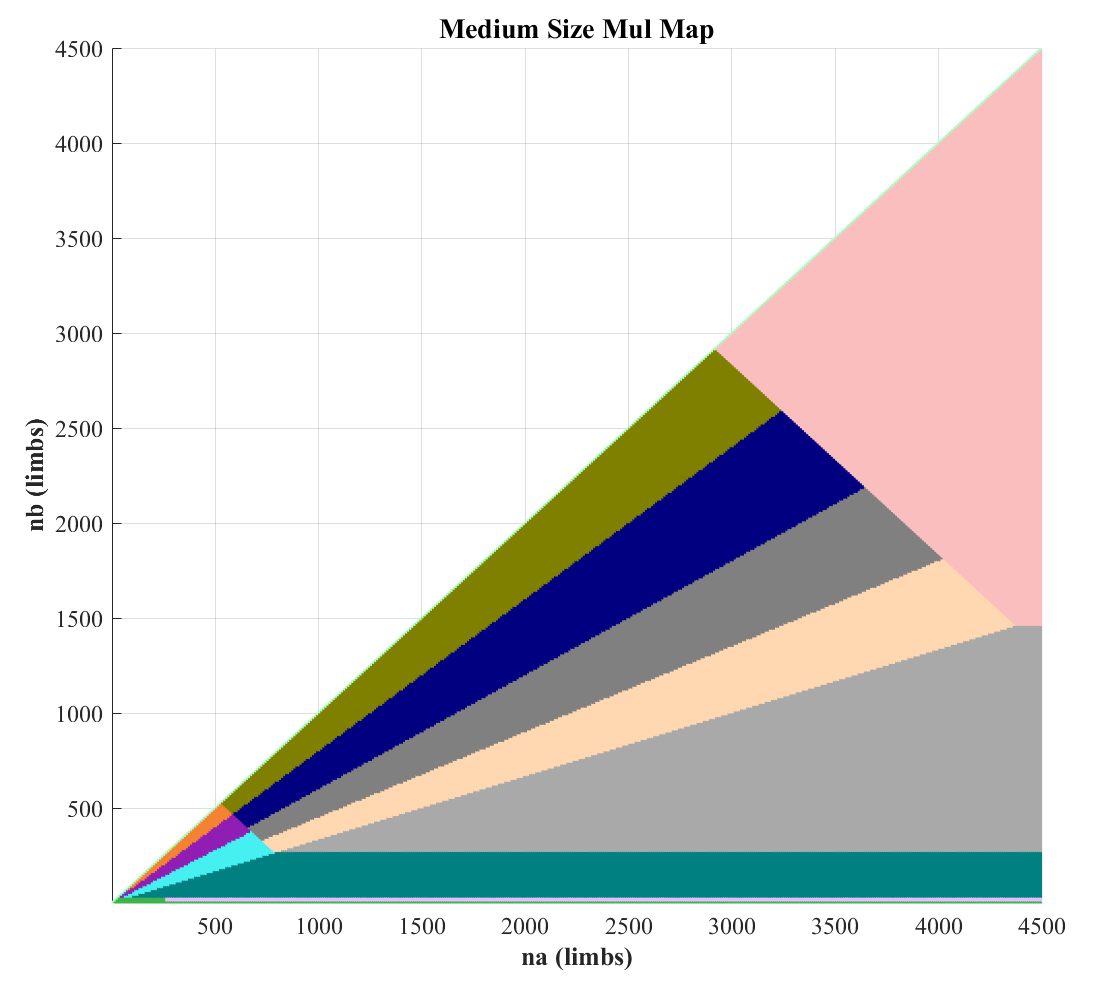
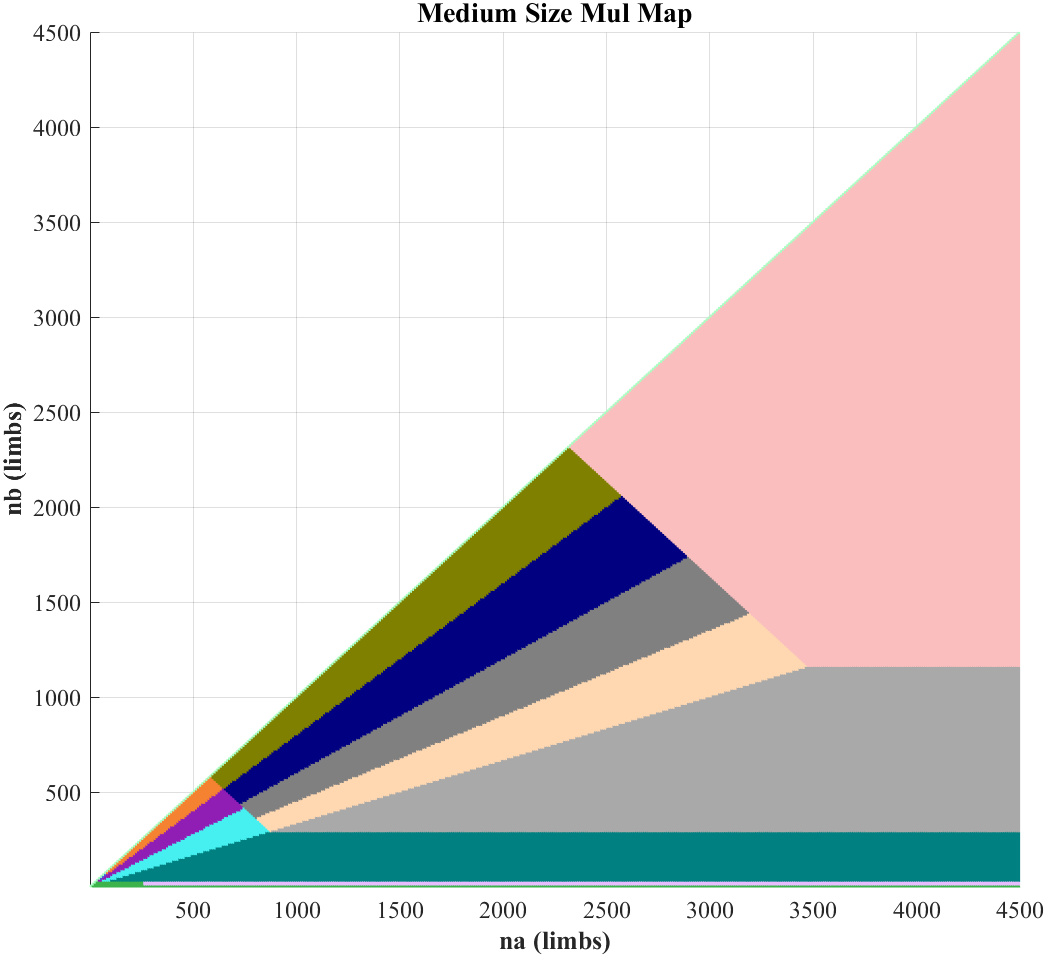
更新乘法地图，部分调优参数已发生变动

diff --git a/doc/lammp/dev/mulcase.md b/doc/lammp/dev/mulcase.md
@@ -2,6 +2,5 @@
 ## 不同输入长度下的乘法策略
 
 横纵坐标值均为乘数的 ``limb`` 数量
-
 ![alt text](image/mulcase_medium.png)
-![alt text](image//mulcase_small.png)
+![alt text](image/mulcase_small.png)